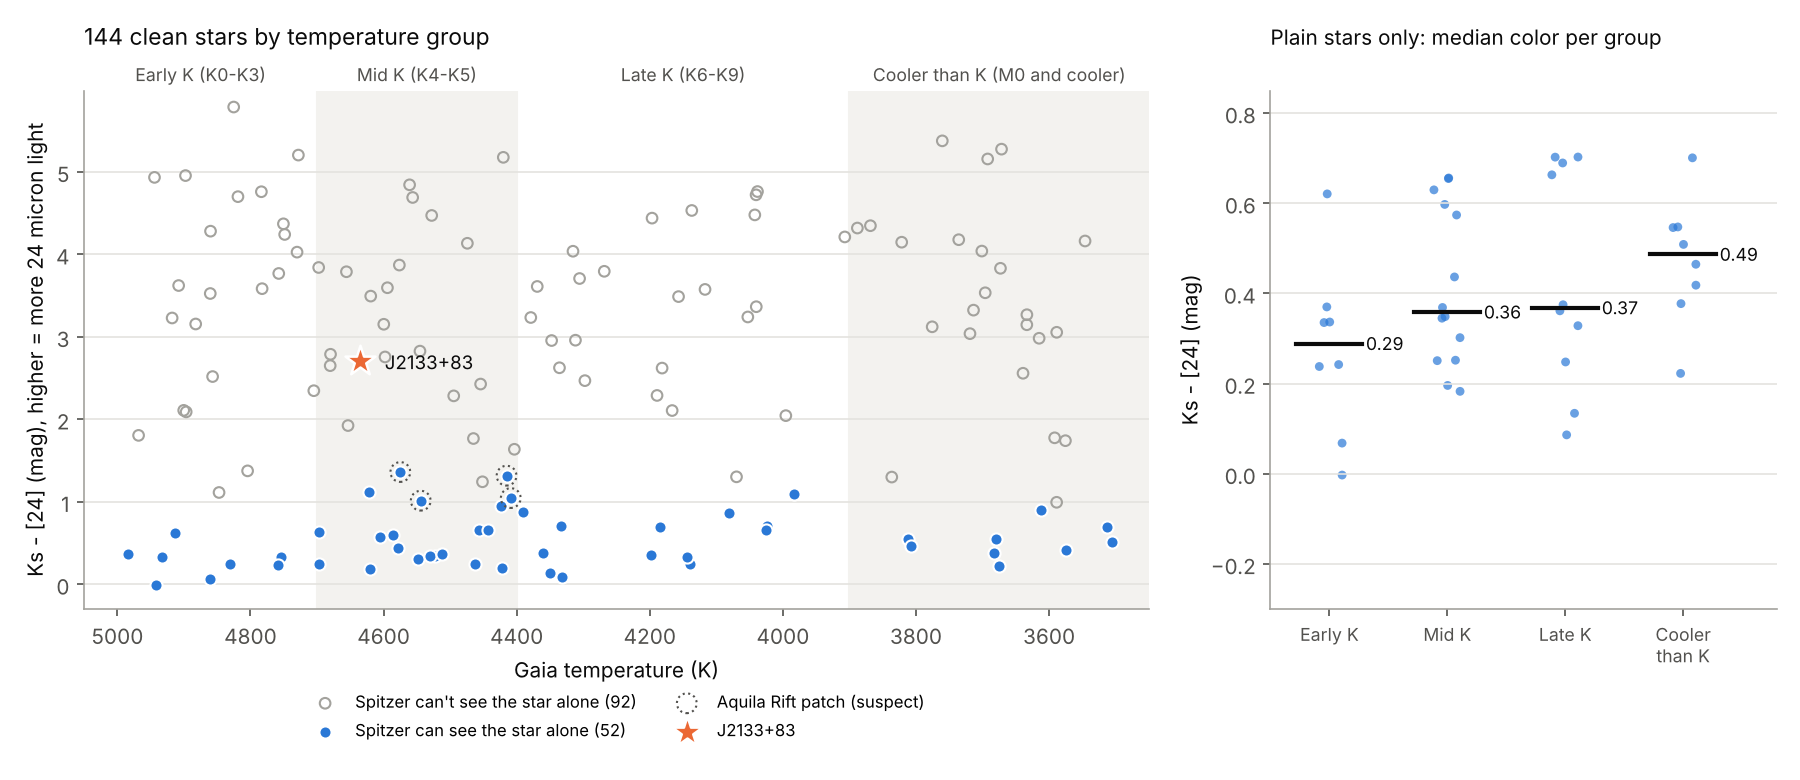
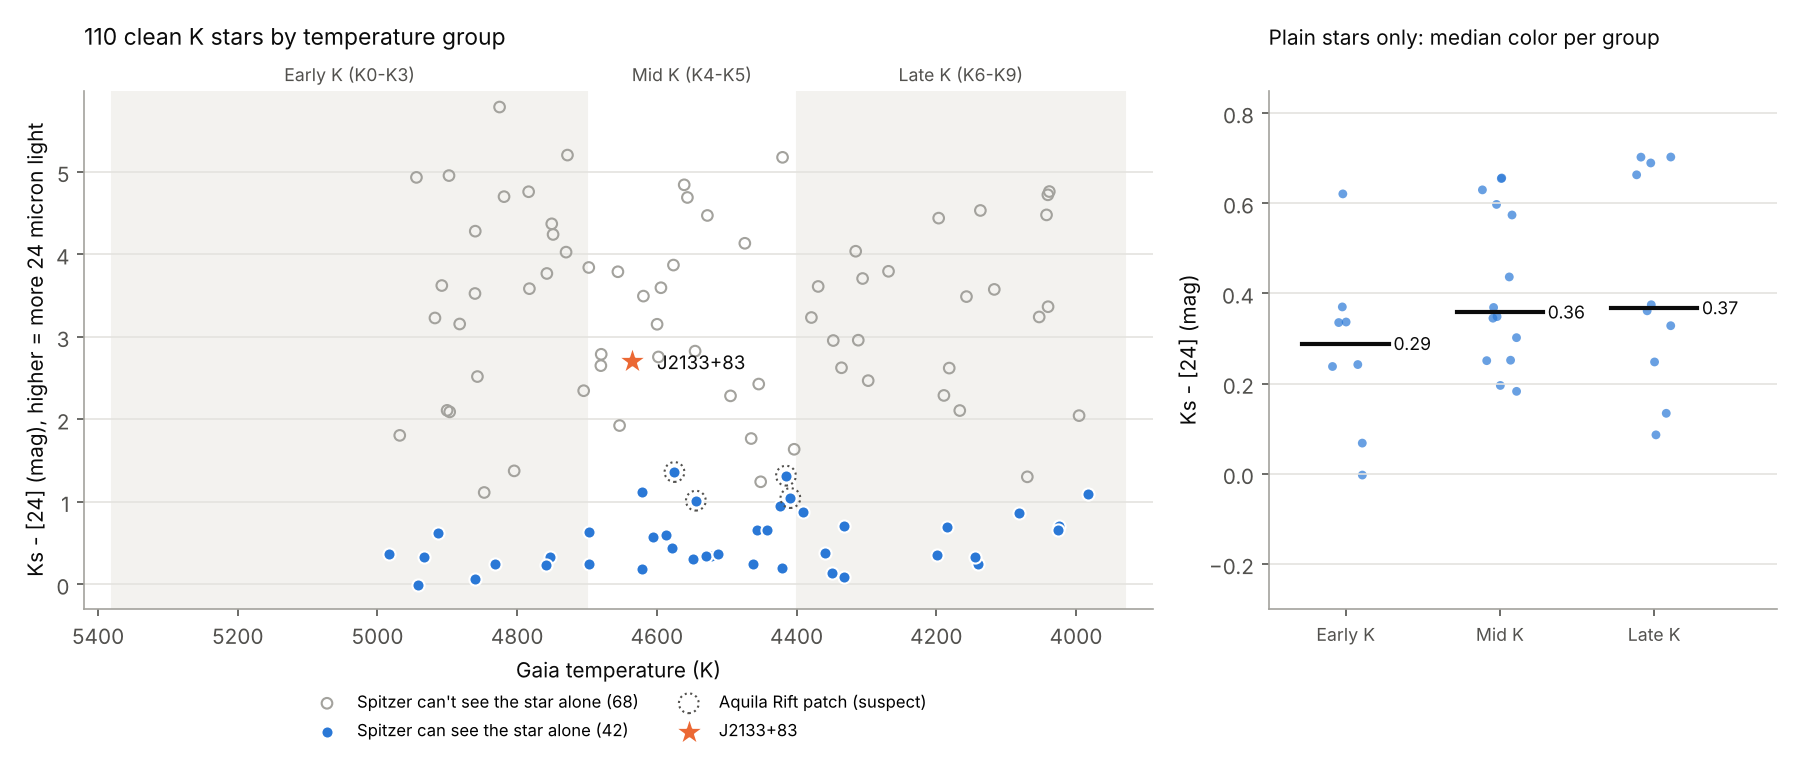
Use this term's K star range (3930-5380 K) in temp_groups.py
Drops the 34 clean stars cooler than K, leaving 110, and warns that the
sample is missing the hottest K stars until the pipeline is rerun from
the step 4 sample. Also handles empty groups so the rerun won't crash.

Claude-Session: https://claude.ai/code/session_01FpR45xUwvjaeZDMjvi2Pg7

diff --git a/temp_groups.py b/temp_groups.py
@@ -1,23 +1,27 @@
 """
-Split the 144 clean stars into temperature groups (Skorpen's suggestion:
+Split the clean stars into temperature groups (Skorpen's suggestion:
 cooler and hotter stars behave differently, so report results by group).
+
+Only keeps stars inside this term's K star range from VOCED_step4.py
+(3930 K < Teff < 5380 K). Last semester's sample used 3500-5000 K, so on that
+sample this drops the stars cooler than K (34 of 144) and is missing the
+hottest K stars until the pipeline is rerun from the step 4 sample.
 
 Groups use Gaia DR3 temperatures (Teff) and the usual dwarf star temperature
 scale (Pecaut & Mamajek 2013):
-    Early K  (K0-K3)              Teff >= 4700 K
-    Mid K    (K4-K5)              4400 - 4700 K
-    Late K   (K6-K9)              3900 - 4400 K
-    Cooler than K (Gaia: early M) Teff <  3900 K
+    Early K  (K0-K3)    4700 - 5380 K
+    Mid K    (K4-K5)    4400 - 4700 K
+    Late K   (K6-K9)    3930 - 4400 K
 
 For each star it also works out:
     Ks_minus_24  - 2MASS Ks minus Spitzer 24 um, in magnitudes (bigger = redder = more excess)
     can_see_star - True if Spitzer could detect the star's own light at 24 um
-                   (calibrated prediction >= 3x the 24 um error). These are the 52
-                   "comparable" stars. The other 92 only made the sample because
+                   (calibrated prediction >= 3x the 24 um error). These are the
+                   "comparable" stars. The rest only made the sample because
                    something extra made them bright at 24 um.
     near_edge    - Teff within 100 K of a group boundary (Gaia's Teff can be off by
                    about that much, so these could belong to the next group)
-    aquila_patch - one of the 7 clean stars just above the galactic plane cut in the
+    aquila_patch - one of the clean stars just above the galactic plane cut in the
                    Aquila Rift area (l 23-29, b +5 to +8). Several have big excesses,
                    so treat them with suspicion.
 
@@ -37,10 +41,10 @@ DATA = Path('data')
 FIGS = Path('figures')
 
 # ---- Settings ----
-EDGES = [3900, 4400, 4700]              # group boundaries in K
-GROUPS = ['Cooler than K', 'Late K', 'Mid K', 'Early K']   # coolest to hottest
-SPECTRAL = {'Cooler than K': 'M0 and cooler', 'Late K': 'K6-K9',
-            'Mid K': 'K4-K5', 'Early K': 'K0-K3'}
+TEFF_MIN, TEFF_MAX = 3930, 5380       # K star range from VOCED_step4.py
+EDGES = [4400, 4700]                    # group boundaries in K
+GROUPS = ['Late K', 'Mid K', 'Early K']  # coolest to hottest
+SPECTRAL = {'Late K': 'K6-K9', 'Mid K': 'K4-K5', 'Early K': 'K0-K3'}
 RJ_CORRECTION = 1.329   # measured / Rayleigh-Jeans at 24 um for plain K dwarfs (sed_fit_j2133.py)
 SEE_MIN = 3             # calibrated star-only 24 um flux must be >= 3x the error
 PLAIN_MAX = 0.75        # Ks-[24] below this counts as "plain" (no obvious excess)
@@ -50,10 +54,16 @@ KS_ZP, M24_ZP = 666.7, 7.17   # zero points in Jy (2MASS Ks, MIPS 24)
 
 df = pd.read_csv(DATA / 'kdwarf_sfr.csv')
 c = df[df['clean'].astype(bool)].copy()
-print(f'Clean stars: {len(c)}')
+n_clean = len(c)
+c = c[(c['Teff'] > TEFF_MIN) & (c['Teff'] < TEFF_MAX)].copy()
+print(f'Clean stars: {n_clean}, inside {TEFF_MIN}-{TEFF_MAX} K: {len(c)} '
+      f'(dropped {n_clean - len(c)} outside the K star range)')
+if c['Teff'].max() < TEFF_MAX - 200:
+    print(f"NOTE: the hottest star here is {c['Teff'].max():.0f} K, so the sample is missing the "
+          f"hottest K stars. Rerun the pipeline from the step 4 sample to add them.")
 
 # ---- temperature group for each star ----
-c['temp_group'] = pd.cut(c['Teff'], [0] + EDGES + [1e5], right=False, labels=GROUPS)
+c['temp_group'] = pd.cut(c['Teff'], [TEFF_MIN] + EDGES + [TEFF_MAX], right=False, labels=GROUPS)
 c['spectral_type'] = c['temp_group'].map(SPECTRAL)
 c['near_edge'] = np.min(np.abs(c['Teff'].values[:, None] - np.array(EDGES)[None, :]), axis=1) < EDGE_K
 
@@ -73,10 +83,12 @@ for g in GROUPS:
     see = s[s['can_see_star']]
     plain = see[see['Ks_minus_24'] < PLAIN_MAX]
     top = see.sort_values('Ks_minus_24', ascending=False).head(1)
+    biggest = (f"{top['objid'].iloc[0].replace('SSTSL2 ', '')} ({top['ratio_24'].iloc[0]:.1f}x)"
+               if len(top) else 'none')
     rows.append({
         'group': g,
         'type': SPECTRAL[g],
-        'Teff range (K)': f"{s['Teff'].min():.0f}-{s['Teff'].max():.0f}",
+        'Teff range (K)': f"{s['Teff'].min():.0f}-{s['Teff'].max():.0f}" if len(s) else 'none',
         'stars': len(s),
         'Spitzer sees star': len(see),
         'near edge': int(s['near_edge'].sum()),
@@ -85,7 +97,7 @@ for g in GROUPS:
         'plain median meas/RJ': round(plain['ratio_rj'].median(), 2),
         'chi_24 >= 3 (of seen)': int((see['chi_24'] >= 3).sum()),
         '>= 2x calibrated (of seen)': int((see['ratio_24'] >= 2).sum()),
-        'biggest excess (seen)': f"{top['objid'].iloc[0].replace('SSTSL2 ', '')} ({top['ratio_24'].iloc[0]:.1f}x)",
+        'biggest excess (seen)': biggest,
     })
 summary = pd.DataFrame(rows)
 with pd.option_context('display.width', 200, 'display.max_columns', 20):
@@ -111,7 +123,7 @@ BLUE, ORANGE, GRAY = '#2a78d6', '#eb6834', '#a3a29d'
 fig, (ax, axb) = plt.subplots(1, 2, figsize=(12, 5.2), gridspec_kw={'width_ratios': [2.1, 1]})
 
 # group bands
-lims = [3450, *EDGES, 5050]
+lims = [TEFF_MIN, *EDGES, TEFF_MAX]
 for i, g in enumerate(GROUPS):
     if i % 2 == 0:
         ax.axvspan(lims[i], lims[i + 1], color='#f3f2ef', zorder=0)
@@ -132,24 +144,26 @@ ax.scatter(cand['Teff'], cand['Ks_minus_24'], s=230, marker='*', color=ORANGE, e
 ax.annotate('J2133+83', (cand['Teff'].iloc[0], cand['Ks_minus_24'].iloc[0]), xytext=(12, -4),
             textcoords='offset points', fontsize=9, color=INK)
 
-ax.set_xlim(lims[-1], lims[0])        # hot on the left, like an HR diagram
+ax.set_xlim(lims[-1] + 40, lims[0] - 40)   # hot on the left, like an HR diagram
 ax.set_ylim(-0.3, c['Ks_minus_24'].max() + 0.2)
 ax.set_xlabel('Gaia temperature (K)', color=INK)
 ax.set_ylabel('Ks - [24] (mag), higher = more 24 micron light', color=INK)
 ax.grid(axis='y', color=GRID, lw=0.8)
 ax.legend(fontsize=8, loc='upper center', bbox_to_anchor=(0.5, -0.13), ncol=2, frameon=False)
-ax.set_title('144 clean stars by temperature group', loc='left', fontsize=11, color=INK, pad=22)
+ax.set_title(f'{len(c)} clean K stars by temperature group', loc='left', fontsize=11, color=INK, pad=22)
 
 # right panel: plain-star color per group (comparable stars only)
 plain = see[see['Ks_minus_24'] < PLAIN_MAX]
 ORDER = GROUPS[::-1]   # hot to cool, same as the left panel
 for i, g in enumerate(ORDER):
     v = plain.loc[plain['temp_group'] == g, 'Ks_minus_24']
+    if v.empty:
+        continue
     axb.scatter(np.full(len(v), i) + np.random.default_rng(1).uniform(-0.12, 0.12, len(v)), v,
                 s=18, color=BLUE, alpha=0.7, edgecolors='none')
     axb.plot([i - 0.28, i + 0.28], [v.median()] * 2, color=INK, lw=2)
     axb.text(i + 0.31, v.median(), f'{v.median():.2f}', ha='left', va='center', fontsize=8.5, color=INK)
-axb.set_xticks(range(len(ORDER)), [g.replace('Cooler than K', 'Cooler\nthan K') for g in ORDER], fontsize=8.5)
+axb.set_xticks(range(len(ORDER)), ORDER, fontsize=8.5)
 axb.set_xlim(-0.5, len(ORDER) - 0.2)
 axb.set_ylabel('Ks - [24] (mag)', color=INK)
 axb.set_title('Plain stars only: median color per group', loc='left', fontsize=10, color=INK, pad=22)
